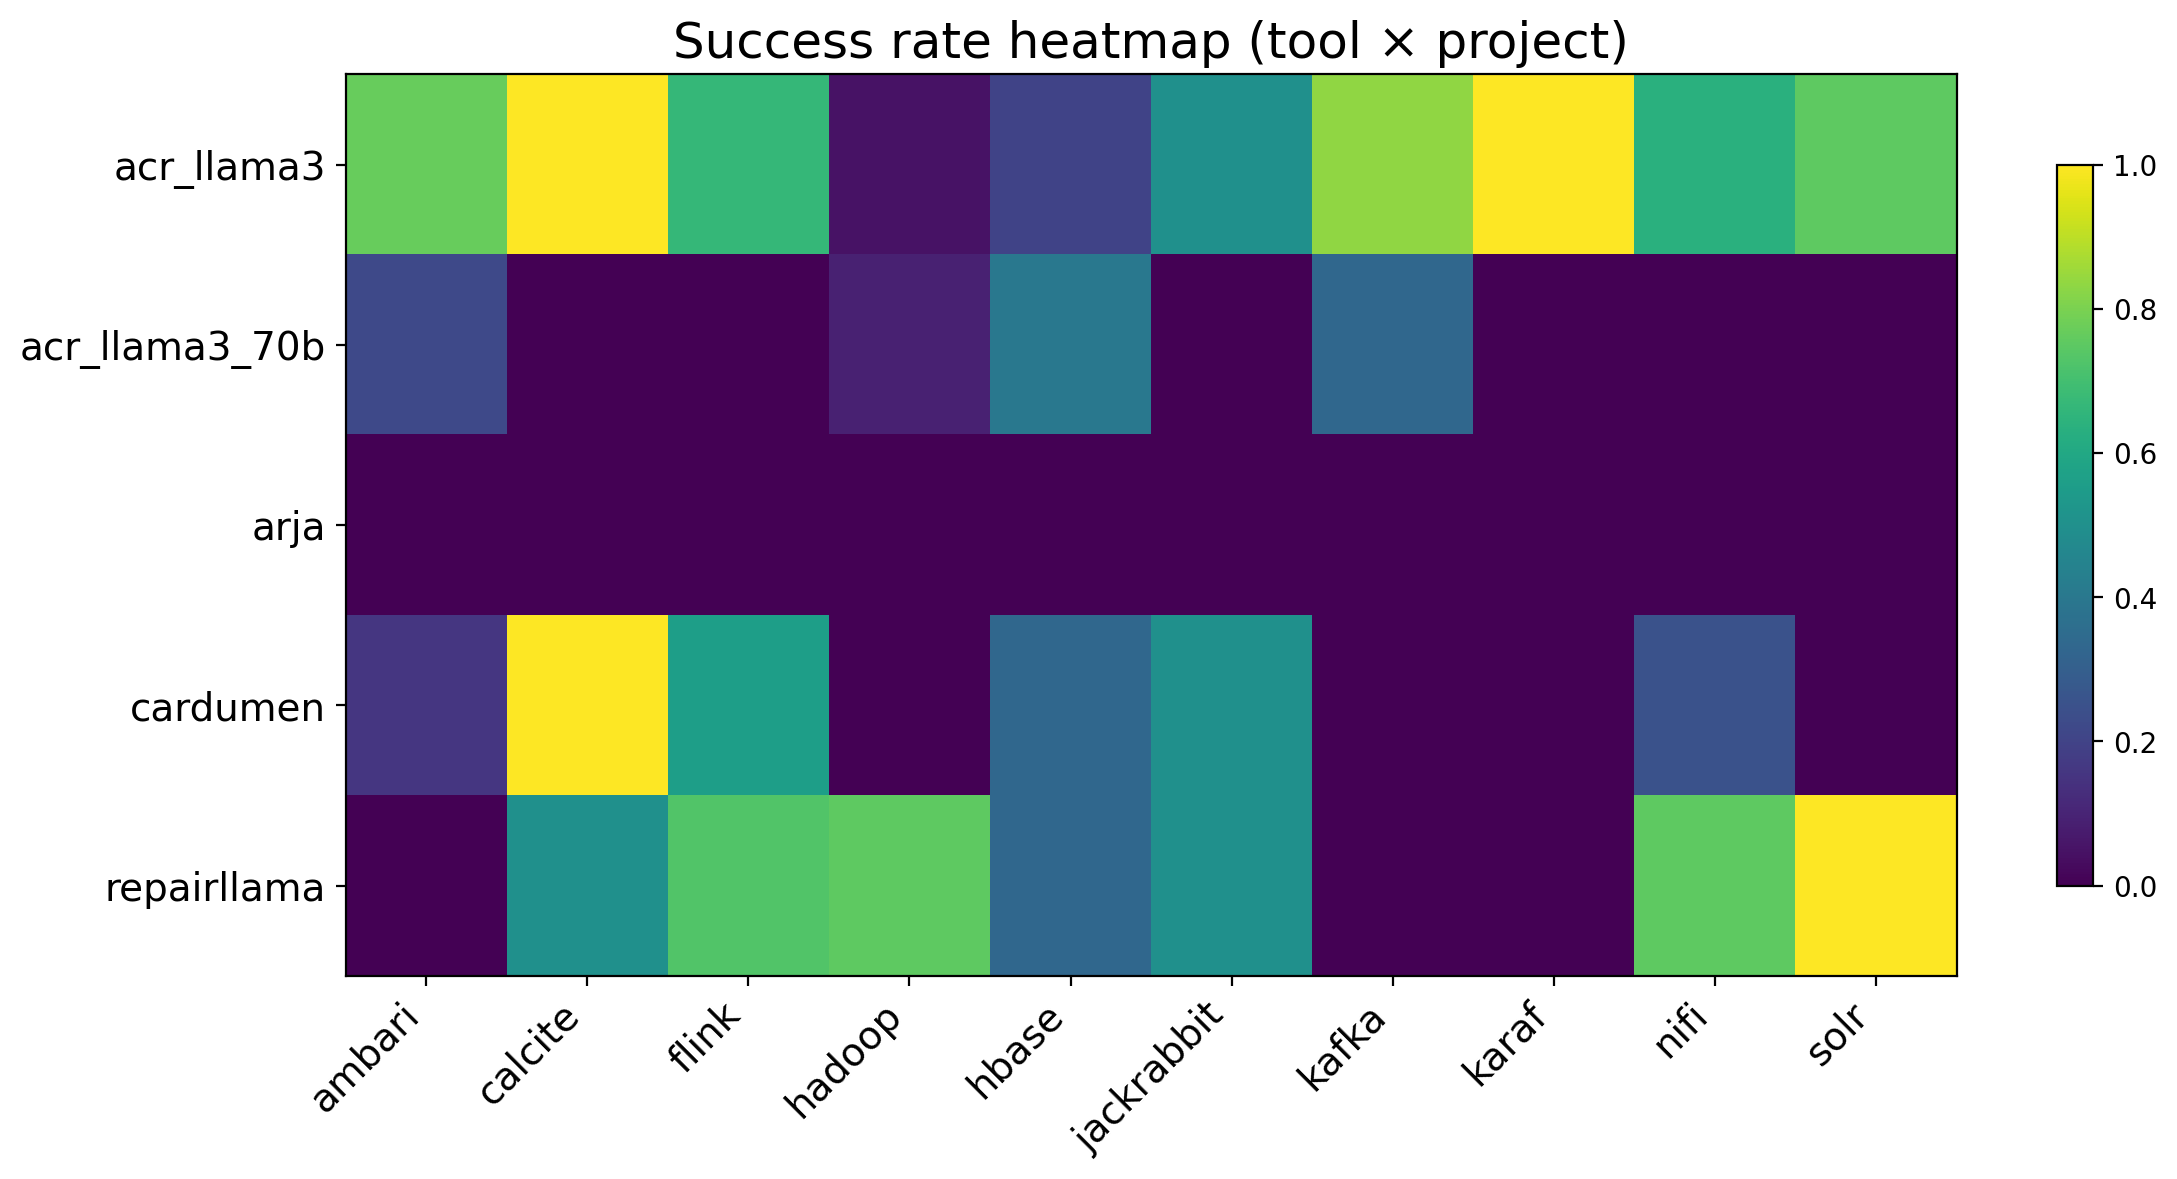
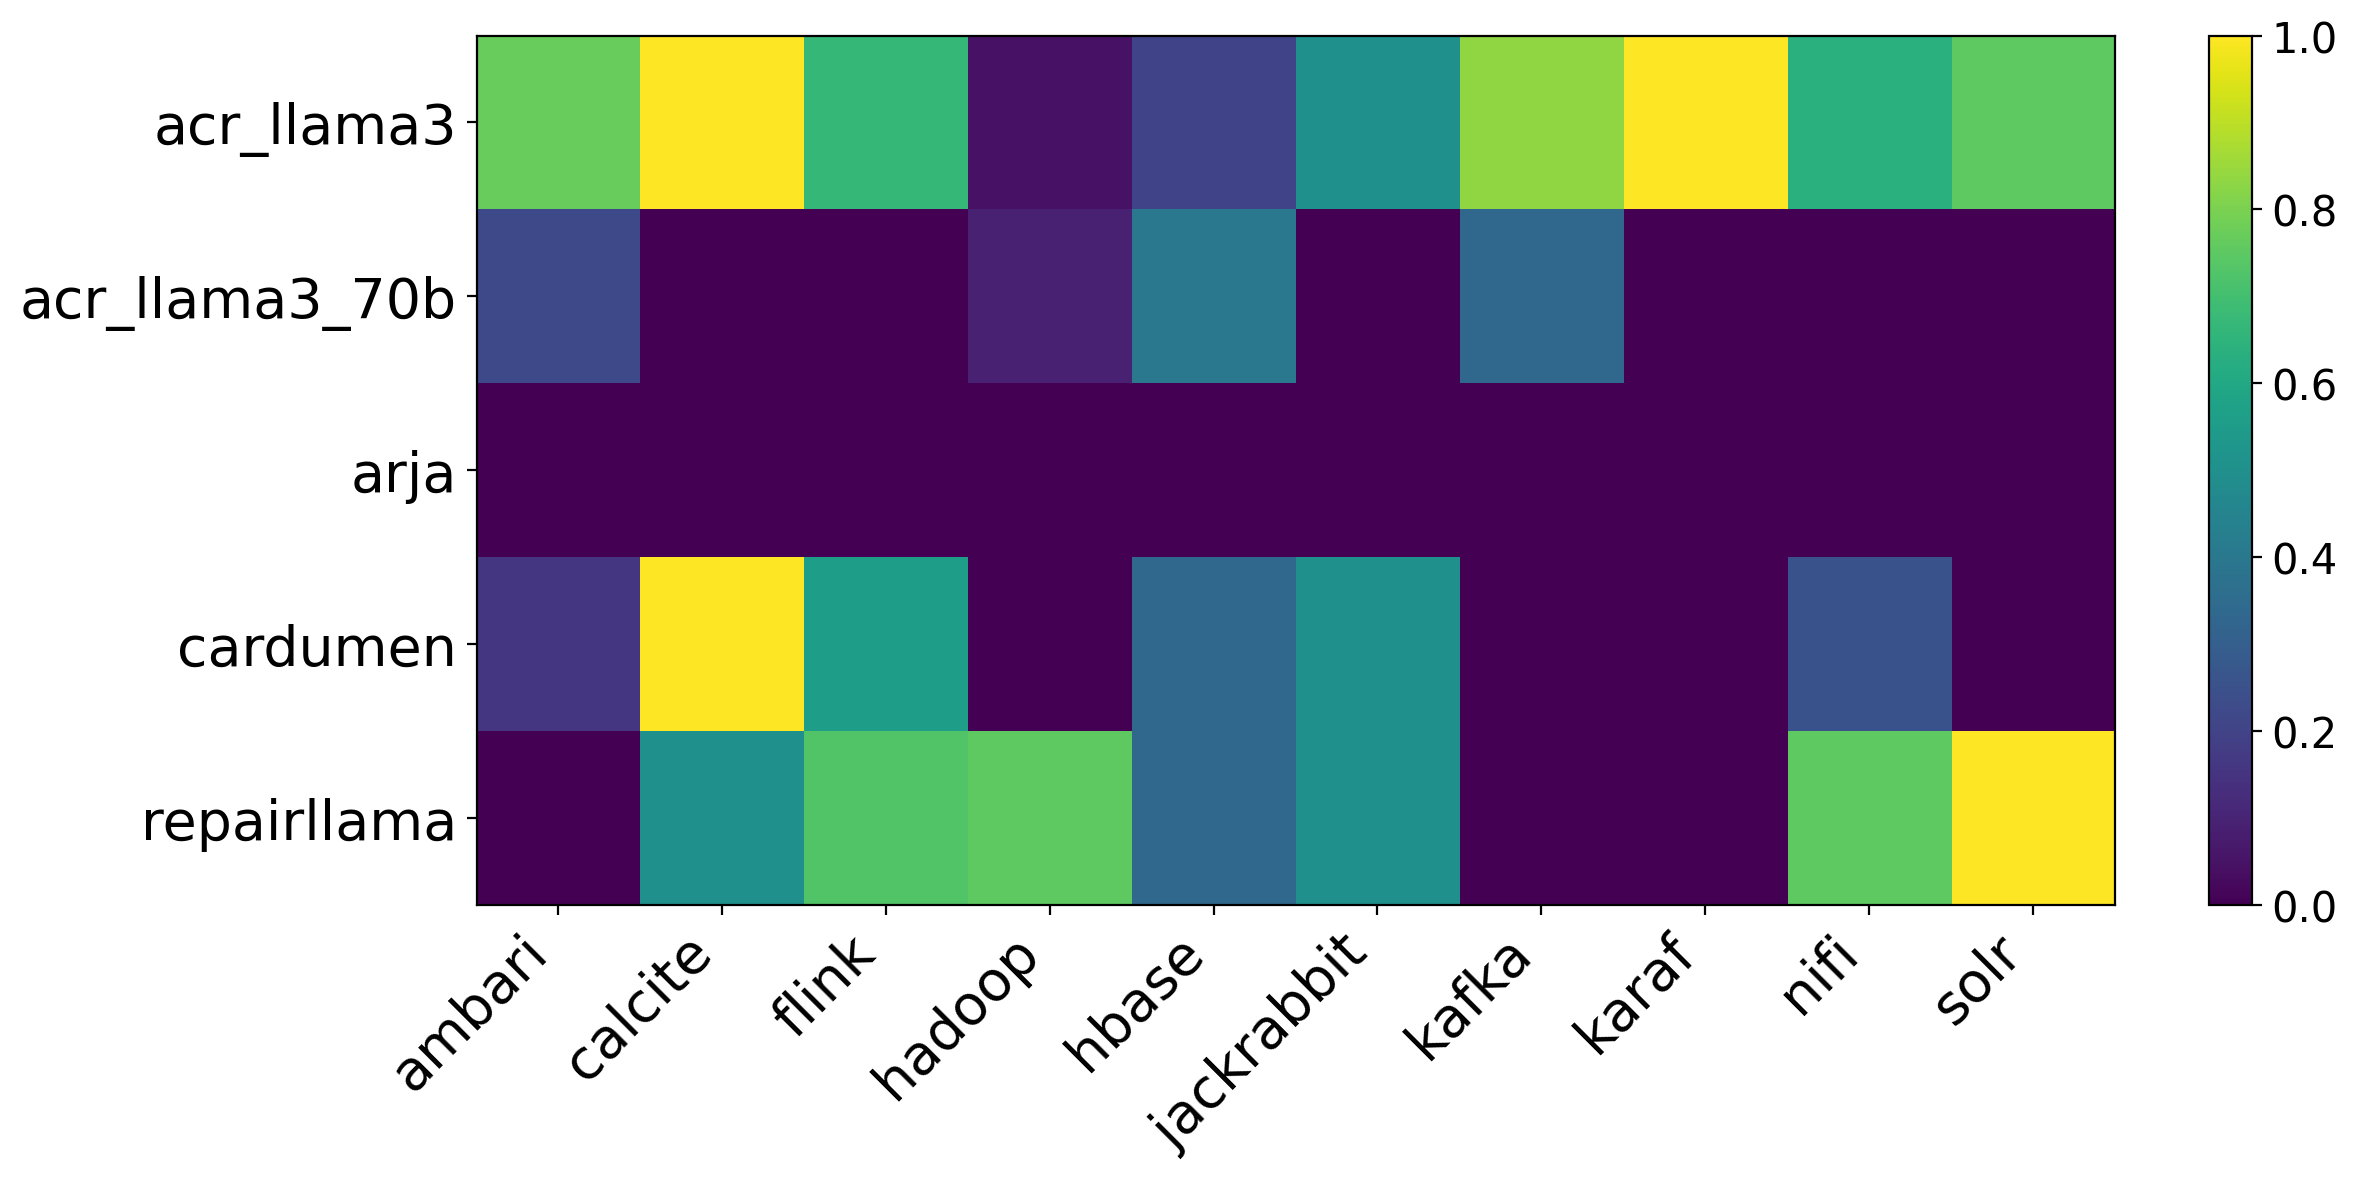
Updating graphs for asthetics

Changed region(s): [[0.0, 0.0, 0.9058, 0.9779], [0.9371, 0.0306, 0.9995, 0.7946], [0.1249, 0.9168, 0.1562, 0.9474]]

diff --git a/graphs.py b/graphs.py
@@ -179,12 +179,13 @@ def plot_bugs_summary(bugs: pd.DataFrame) -> None:
             fig = plt.figure(figsize=(12, 6))
             ax = fig.add_subplot(111)
             im = ax.imshow(mat_rate.values, aspect="auto")  # no explicit colormap
-            ax.set_title("Success rate heatmap (tool × project)", fontsize=18)
+            # ax.set_title("Success rate heatmap (tool × project)", fontsize=18)
             ax.set_xticks(range(mat_rate.shape[1]))
             ax.set_yticks(range(mat_rate.shape[0]))
-            ax.set_xticklabels(mat_rate.columns.astype(str), rotation=45, ha="right", fontsize=14)
-            ax.set_yticklabels(mat_rate.index.astype(str), fontsize=14)
-            fig.colorbar(im, ax=ax, shrink=0.8)
+            ax.set_xticklabels(mat_rate.columns.astype(str), rotation=45, ha="right", fontsize=20)
+            ax.set_yticklabels(mat_rate.index.astype(str), fontsize=20)
+            cbar = fig.colorbar(im, ax=ax, fraction=0.08)
+            cbar.ax.tick_params(labelsize=15)
             savefig("bugs_tool_by_subject_success_rate_heatmap.png")
 
             # Runs-found heatmap (volume)
@@ -215,7 +216,7 @@ def plot_bugs_summary(bugs: pd.DataFrame) -> None:
 # ----------------------------
 # Plots from runs.csv
 # ----------------------------
-def plot_runs(runs: pd.DataFrame) -> None:
+def more_plots(runs: pd.DataFrame) -> None:
     if runs.empty:
         return
 
@@ -281,75 +282,76 @@ def plot_runs(runs: pd.DataFrame) -> None:
                 bottom += vals
 
             ax.set_xticks(x)
-            ax.set_xticklabels(ctab.index.astype(str), rotation=30, ha="right", fontsize=14)
-            ax.set_ylabel("count", fontsize=14)
-            ax.set_title("Run status distribution by tool", fontsize=18)
-            ax.legend(ncol=2, fontsize=8)
+            ax.set_xticklabels(ctab.index.astype(str), rotation=30, ha="right", fontsize=20)
+            ax.set_ylabel("count", fontsize=20)
+            ax.tick_params(axis="y", labelsize=20)
+            # ax.set_title("Run status distribution by tool", fontsize=18)
+            ax.legend(fontsize=16)
             savefig("runs_status_by_tool_stacked.png")
 
 
 
     # 7) Success rate by tool with 95% Wilson CI (special handling for ACR)
-    if {"tool", "success"}.issubset(runs.columns):
-        tools = []
-        rates = []
-        lo = []
-        hi = []
-        nvals = []
+    # if {"tool", "success"}.issubset(runs.columns):
+    #     tools = []
+    #     rates = []
+    #     lo = []
+    #     hi = []
+    #     nvals = []
 
-        z = 1.96
+    #     z = 1.96
 
-        # Normal tools: compute from observed runs
-        for tool, s in runs.groupby("tool")["success"]:
-            tool_str = str(tool)
+    #     # Normal tools: compute from observed runs
+    #     for tool, s in runs.groupby("tool")["success"]:
+    #         tool_str = str(tool)
 
-            s_num = pd.to_numeric(s, errors="coerce").dropna()
-            if tool_str.lower() == "acr":
-                # ACR rule: total runs are fixed at 110; missing ones are failures (non-zero exit)
-                total_n = 110
-                k = int((s_num == 1).sum())
-                # clamp in case data has more than 110 successes somehow
-                k = min(k, total_n)
-                n = total_n
-            else:
-                n = len(s_num)
-                if n == 0:
-                    continue
-                k = int((s_num == 1).sum())
+    #         s_num = pd.to_numeric(s, errors="coerce").dropna()
+    #         if tool_str.lower() == "acr":
+    #             # ACR rule: total runs are fixed at 110; missing ones are failures (non-zero exit)
+    #             total_n = 110
+    #             k = int((s_num == 1).sum())
+    #             # clamp in case data has more than 110 successes somehow
+    #             k = min(k, total_n)
+    #             n = total_n
+    #         else:
+    #             n = len(s_num)
+    #             if n == 0:
+    #                 continue
+    #             k = int((s_num == 1).sum())
 
-            phat = k / n
+    #         phat = k / n
 
-            # Wilson interval
-            denom = 1 + (z**2) / n
-            center = (phat + (z**2) / (2*n)) / denom
-            half = (z * math.sqrt((phat*(1-phat)/n) + (z**2)/(4*n*n))) / denom
+    #         # Wilson interval
+    #         denom = 1 + (z**2) / n
+    #         center = (phat + (z**2) / (2*n)) / denom
+    #         half = (z * math.sqrt((phat*(1-phat)/n) + (z**2)/(4*n*n))) / denom
 
-            tools.append(tool_str)
-            rates.append(phat)
-            lo.append(max(0.0, center - half))
-            hi.append(min(1.0, center + half))
-            nvals.append(n)
+    #         tools.append(tool_str)
+    #         rates.append(phat)
+    #         lo.append(max(0.0, center - half))
+    #         hi.append(min(1.0, center + half))
+    #         nvals.append(n)
 
-        if tools:
-            order = np.argsort(rates)[::-1]
-            tools = [tools[i] for i in order]
-            rates = np.array([rates[i] for i in order])
-            lo = np.array([lo[i] for i in order])
-            hi = np.array([hi[i] for i in order])
+    #     if tools:
+    #         order = np.argsort(rates)[::-1]
+    #         tools = [tools[i] for i in order]
+    #         rates = np.array([rates[i] for i in order])
+    #         lo = np.array([lo[i] for i in order])
+    #         hi = np.array([hi[i] for i in order])
 
-            fig = plt.figure(figsize=(10, 6))
-            ax = fig.add_subplot(111)
+    #         fig = plt.figure(figsize=(10, 6))
+    #         ax = fig.add_subplot(111)
 
-            x = np.arange(len(tools))
-            ax.bar(x, rates)
-            ax.errorbar(x, rates, yerr=[rates - lo, hi - rates], fmt="none", capsize=3)
+    #         x = np.arange(len(tools))
+    #         ax.bar(x, rates)
+    #         ax.errorbar(x, rates, yerr=[rates - lo, hi - rates], fmt="none", capsize=3)
 
-            ax.set_xticks(x)
-            ax.set_xticklabels(tools, rotation=30, ha="right")
-            ax.set_ylim(0, 1)
-            ax.set_ylabel("success rate")
-            ax.set_title("Success rate by tool with 95% Wilson CI (ACR totals forced to 110)")
-            savefig("runs_success_rate_wilson_ci.png")
+    #         ax.set_xticks(x)
+    #         ax.set_xticklabels(tools, rotation=30, ha="right")
+    #         ax.set_ylim(0, 1)
+    #         ax.set_ylabel("success rate")
+    #         ax.set_title("Success rate by tool with 95% Wilson CI (ACR totals forced to 110)")
+    #         savefig("runs_success_rate_wilson_ci.png")
 
     # 8) Boxplot: total_duration_seconds by tool (log10 scale via transform)
     if {"tool", "total_duration_seconds"}.issubset(runs.columns):
@@ -366,12 +368,22 @@ def plot_runs(runs: pd.DataFrame) -> None:
 
                 data = [tmp.loc[tmp["tool"] == t, "log10_duration"].to_numpy() for t in counts]
 
-                fig = plt.figure(figsize=(10, 6))
+                fig = plt.figure(figsize=(20, 12))
                 ax = fig.add_subplot(111)
-                ax.boxplot(data, labels=[str(t) for t in counts], showfliers=False)
-                ax.set_ylabel("log10(total_duration_seconds)", fontsize=14)
-                ax.set_title("Duration by tool (boxplot, log10 scale)", fontsize=18)
-                plt.setp(ax.get_xticklabels(), rotation=30, ha="right")
+
+                ax.boxplot(
+                    data,
+                    labels=[str(t) for t in counts],
+                    showfliers=False,
+                    boxprops=dict(linewidth=10),
+                    whiskerprops=dict(linewidth=10),
+                    capprops=dict(linewidth=10),
+                    medianprops=dict(linewidth=14, color="darkred") 
+                )
+
+                ax.set_ylabel("log10(total_duration_seconds)", fontsize=40)
+                plt.setp(ax.get_xticklabels(), rotation=30, ha="right", fontsize=40)
+
                 savefig("runs_duration_boxplot_log10_by_tool.png")
 
     # 9) Scatter: patch_files vs duration, colored by tool (small multiple via legend)
@@ -543,7 +555,7 @@ def plot_runs(runs: pd.DataFrame) -> None:
         if len(agg) > top_n:
             agg = agg.head(top_n)
         
-        fig, ax = plt.subplots(figsize=(max(10, 0.6 * len(agg)), 6))
+        fig, ax = plt.subplots(figsize=(max(12, 0.6 * len(agg)), 6))
         x = np.arange(len(agg.index))
 
         # Drop all-zero rows (log scale can't display them)
@@ -558,19 +570,19 @@ def plot_runs(runs: pd.DataFrame) -> None:
             ax.bar(x, vals, bottom=bottom, label=m)
             bottom += vals
 
-        ax.set_title(f"Patch counts by {group_col} (log scale)", fontsize=18)
-        ax.set_xlabel(group_col, fontsize=14)
-        ax.set_ylabel("count (sum across runs)", fontsize=14)
+        # ax.set_title(f"Patch counts by {group_col} (log scale)", fontsize=18)
+        ax.set_xlabel(group_col, fontsize=20)
+        ax.set_ylabel("count (sum across runs)", fontsize=20)
         ax.set_xticks(x)
-        ax.set_xticklabels(list(agg_plot.index), rotation=45, ha="right")
-
+        ax.set_xticklabels(list(agg_plot.index), rotation=45, ha="right", fontsize=20)
+        ax.tick_params(axis="y", labelsize=20)
         # LOG SCALE
         ax.set_yscale("log")
 
         # Optional: make the lower bound sane so tiny counts are visible
         ax.set_ylim(bottom=max(1, np.nanmin(bottom[bottom > 0]) if np.any(bottom > 0) else 1))
 
-        ax.legend()
+        ax.legend(fontsize=20)
         _save(fig, outdir / f"stacked_by_{group_col}_log.png")
 
 
@@ -613,13 +625,13 @@ def plot_runs(runs: pd.DataFrame) -> None:
                 ax.bar(x, vals, bottom=bottom, label=m)
                 bottom += vals 
 
-            ax.set_title(f"Patch counts by project across tools (log scale)",fontsize=18)
-            ax.set_xlabel("Project",fontsize=14)
-            ax.set_ylabel("count (sum across runs, log scale)",fontsize=14)
+            # ax.set_title(f"Patch counts by project across tools (log scale)",fontsize=18)
+            ax.set_xlabel("Project",fontsize=30)
+            ax.set_ylabel("count (sum across runs)",fontsize=30)
             ax.set_yscale("log")
             ax.set_xticks(x)
-            ax.set_xticklabels(list(agg2.index), rotation=45, ha="right")
-            ax.legend()
+            ax.set_xticklabels(list(agg2.index), rotation=45, ha="right", fontsize=25)
+            ax.legend(fontsize=20)
             _save(fig, outdir / f"stacked_by_{subj_col}_log.png")
 
     print(f"plot_runs: wrote plots to {outdir}")
@@ -638,7 +650,7 @@ def main() -> None:
     plot_bugs_summary(bugs)
     plot_runs(runs)
     plot_acr_patchfiles(acr)
-    plot_runs(runs)
+    more_plots(runs)
 
     print("done.")
 
